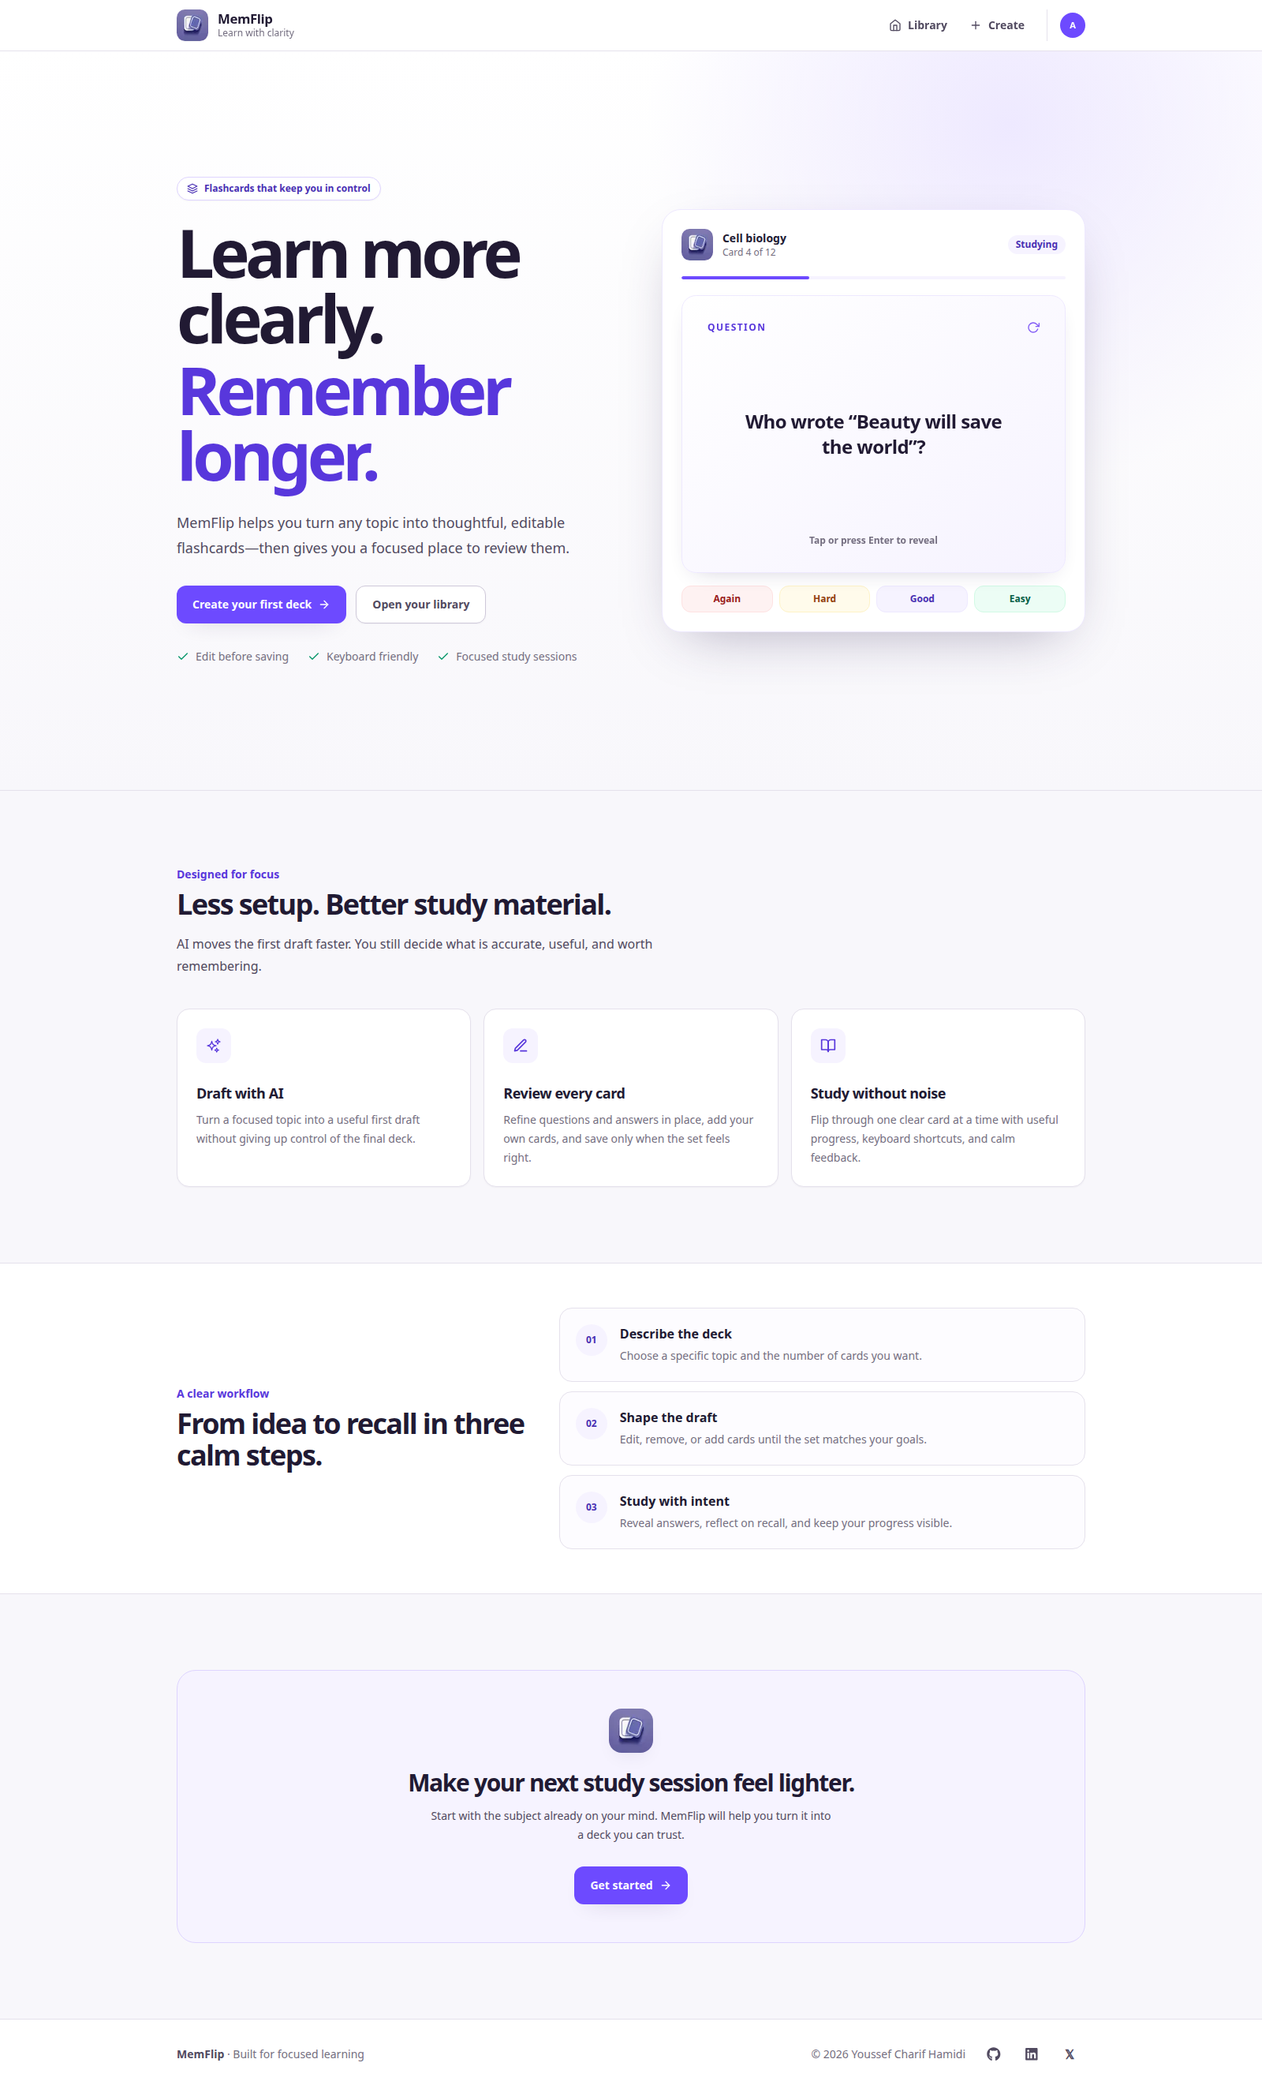
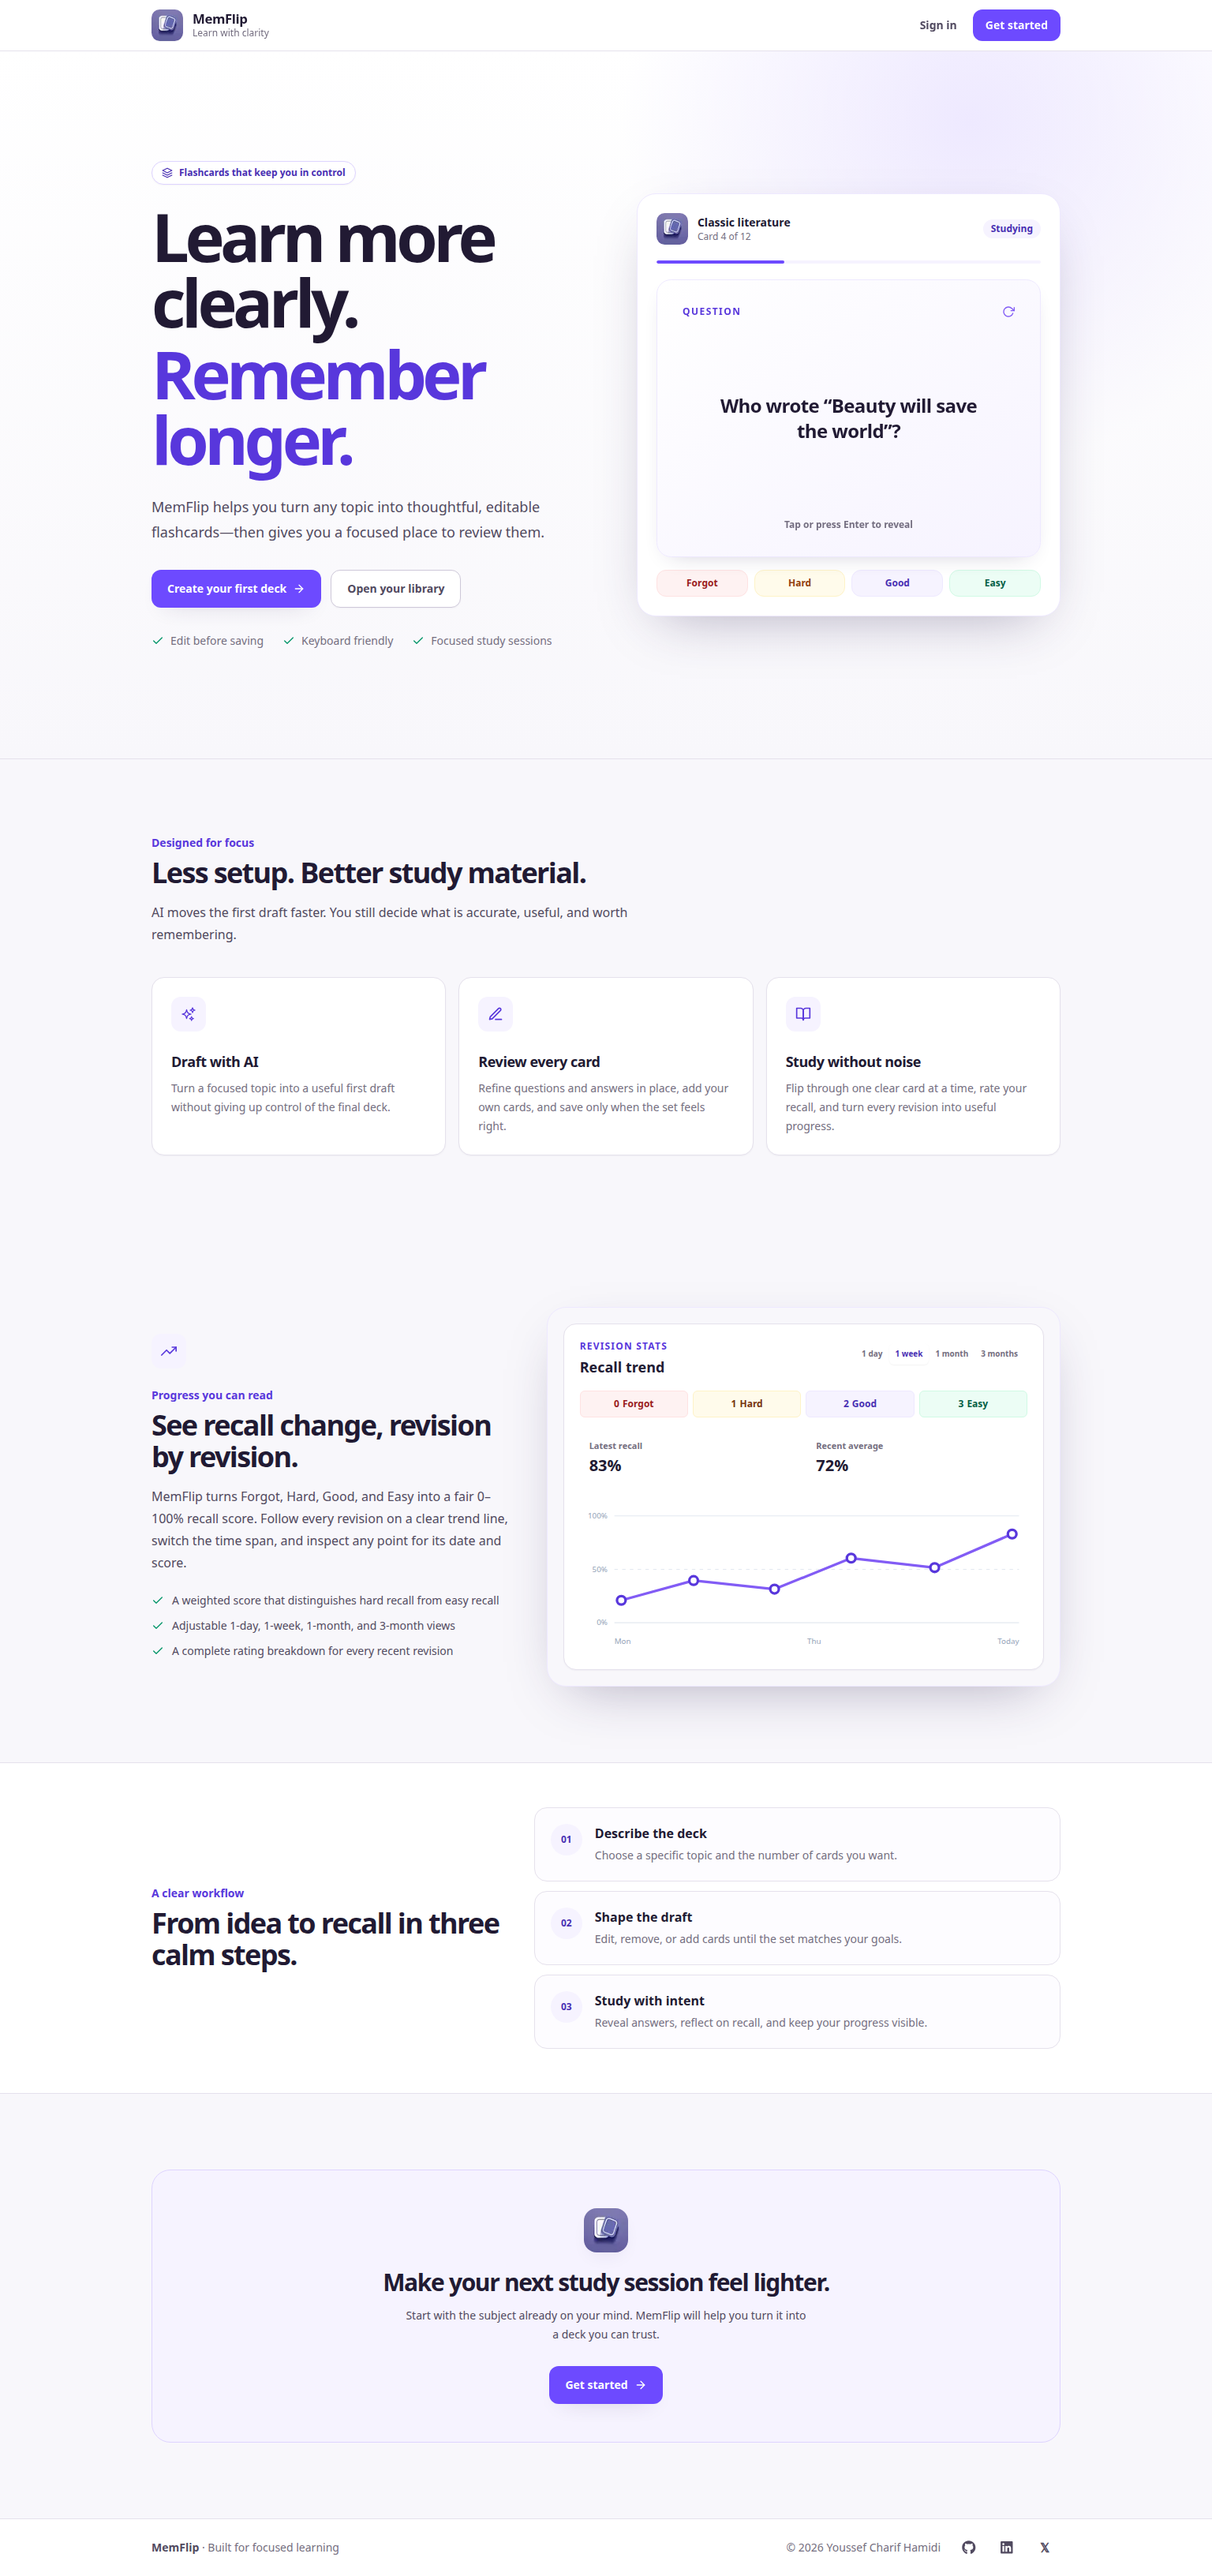
Refresh README screenshots

diff --git a/README.md b/README.md
@@ -91,6 +91,8 @@ The deck menu also provides direct edit and delete actions.
 
 ![Study a saved flashcard deck](public/screenshots/review_flashcards.png)
 
+![Track recall in deck stats](public/screenshots/deck_stats.png)
+
 ## Accessibility
 
 MemFlip includes:
